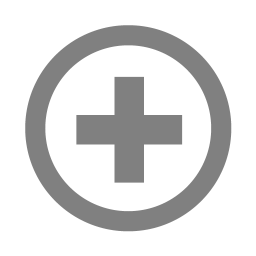
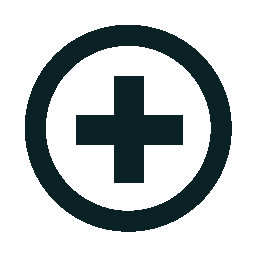
sign Up

Changed region(s): [[0.0938, 0.0938, 0.9062, 0.9062], [0.2812, 0.2812, 0.7188, 0.7188]]

diff --git a/src/screens/SignUP.tsx b/src/screens/SignUP.tsx
@@ -1,118 +1,148 @@
-import React from "react";
-import { Text, View, StyleSheet, TextInput, TouchableOpacity } from "react-native";
+import React, { useState } from "react";
+import { StyleSheet, TextInput, View, Text, ScrollView, TouchableOpacity, KeyboardAvoidingView } from "react-native";
 
-const SignUP = ({ navigation }) => {
+const SignUpScreen = ({ navigation }) => {
+  const [username, setUsername] = useState<String>("");
+  const [password, setPassword] = useState<String>("");
+  const [email, setEmail] = useState<String>("");
+  const [confirmEmail, setconfirmEmail] = useState<String>("");
+  const [error, setError] = useState<Boolean>(false);
+  const [errorMsg, setErrorMsg] = useState<String>("");
+
+  const resetError = () => {
+    setError(false);
+    setErrorMsg("");
+  };
+
+  const handleSubmit = () => {
+    if (username === "") {
+      setErrorMsg("Username is Empty");
+      setError(true);
+      return;
+    }
+    if (password === "") {
+      setErrorMsg("Password is Empty");
+      setError(true);
+      return;
+    }
+    if (email != confirmEmail) {
+      setErrorMsg("Email and Confirm Email Does not match");
+      setError(true);
+      return;
+    }
+    setErrorMsg("");
+    setError(false);
+
+    navigation.reset({
+      index: 0,
+      routes: [{ name: "login" }],
+    });
+  };
   return (
-    <View style={styles.wrapper}>
-      <View style={styles.body}>
-        <View style={styles.topTitle}>
-          <Text style={styles.headerTextStyle}>Sign Up Here</Text>
-        </View>
-        <TextInput style={styles.input} value={"Username"} />
-        <TextInput style={styles.input} value={"Email"} />
-        <TextInput style={styles.input} value={"Password"} placeholder="Password" />
-        <TextInput style={styles.input} value={"Confirm Password"} placeholder="Confirm Password" />
-        <Text style={styles.smallText}>By signing up You agree to the our Terms of service and privacy policy</Text>
-      </View>
-      <View style={styles.buttonSet}>
-        <TouchableOpacity style={styles.button}>
-          <Text style={styles.buttonText}> Submit </Text>
-        </TouchableOpacity>
-
-        <TouchableOpacity style={styles.button}>
-          <Text
-            style={styles.buttonText}
+    <View style={styles.mainBody}>
+      <View style={{ flex: 0.2 }}></View>
+      <ScrollView>
+        <KeyboardAvoidingView enabled>
+          <View style={{ alignItems: "center" }}>
+            <Text style={styles.headerTextStyle}>Sign Up</Text>
+          </View>
+          <Text style={styles.errorTextStyle}>{errorMsg}</Text>
+          <View style={styles.SectionStyle}>
+            <TextInput style={styles.inputStyle} textAlign={"center"} onChange={resetError} placeholder={"Username"} onChangeText={setUsername} clearTextOnFocus />
+          </View>
+          <View style={styles.SectionStyle}>
+            <TextInput style={styles.inputStyle} textAlign={"center"} onChange={resetError} onChangeText={setEmail} placeholder="Email" clearTextOnFocus />
+          </View>
+          <View style={styles.SectionStyle}>
+            <TextInput style={styles.inputStyle} textAlign={"center"} onChange={resetError} onChangeText={setconfirmEmail} placeholder="Confirm Email" clearTextOnFocus />
+          </View>
+          <View style={styles.SectionStyle}>
+            <TextInput style={styles.inputStyle} textAlign={"center"} onChange={resetError} onChangeText={setPassword} placeholder="Password" clearTextOnFocus />
+          </View>
+          <TouchableOpacity
+            style={styles.buttonStyle}
+            activeOpacity={0.5}
             onPress={() => {
-              navigation.reset({
-                index: 0,
-                routes: [{ name: "login" }],
-              });
+              handleSubmit();
             }}
           >
-            {" "}
-            Cancel{" "}
-          </Text>
-        </TouchableOpacity>
-      </View>
+            <Text style={styles.buttonTextStyle}>Sign Up</Text>
+          </TouchableOpacity>
+        </KeyboardAvoidingView>
 
-      <View style={styles.footer}></View>
+        <Text style={styles.registerTextStyle} onPress={() => navigation.navigate("login")}>
+          Already a User? Login
+        </Text>
+      </ScrollView>
     </View>
   );
 };
+export default SignUpScreen;
 
 const styles = StyleSheet.create({
-  wrapper: {
+  mainBody: {
     flex: 1,
-    flexDirection: "column",
-  },
-  top: {
-    flex: 0.5,
-    justifyContent: "flex-end",
-  },
-  body: {
-    flex: 6,
     justifyContent: "center",
-    alignItems: "center",
-    paddingTop: "15%",
+    alignContent: "center",
+    marginTop: 20,
   },
-  footer: {
-    flex: 0.8,
-    justifyContent: "flex-start",
-    alignItems: "center",
-  },
-  buttonSet: {
-    flex: 0.2,
+  SectionStyle: {
     flexDirection: "row",
-    justifyContent: "center",
-    alignItems: "flex-end",
-    paddingTop: "10%",
-  },
-  topTitle: {
-    marginTop: 5,
-    flex: 0.2,
-    justifyContent: "flex-start",
-    alignItems: "center",
-    position: "relative",
-    bottom: 40,
+    height: 50,
+    marginTop: 20,
+    marginLeft: 35,
+    marginRight: 35,
+    margin: 10,
   },
   headerTextStyle: {
-    fontSize: 34,
-    color: "gray",
-    fontWeight: "600",
+    height: 100,
+    margin: 30,
+    textAlign: "center",
+    fontSize: 32,
   },
-  input: {
+  buttonStyle: {
+    backgroundColor: "#0A2126",
     height: 50,
-    margin: 12,
-    borderColor: "gray",
     borderRadius: 10,
-    borderWidth: 1,
-    padding: 10,
+    borderWidth: 0,
+    color: "#FFFFFF",
+    borderColor: "#7DE24E",
+    alignItems: "center",
+    marginLeft: 35,
+    marginRight: 35,
+    marginTop: 20,
+    marginBottom: 25,
+  },
+  buttonTextStyle: {
+    color: "#FFFFFF",
+    paddingVertical: 10,
+    fontSize: 16,
+  },
+  inputStyle: {
+    height: 50,
+    borderColor: "#0A2126",
+    borderRadius: 10,
     width: "80%",
     fontStyle: "italic",
-    paddingLeft: 20,
+    fontSize: 16,
+    flex: 1,
+    color: "#0A2126",
+    paddingLeft: 15,
+    paddingRight: 15,
+    borderWidth: 1,
   },
-  button: {
-    backgroundColor: "gray",
-    height: 50,
-    width: 120,
-    margin: 10,
-    borderRadius: 10,
-    justifyContent: "center",
-    alignItems: "center",
-  },
-  smallText: {
-    alignSelf: "center",
+  registerTextStyle: {
     textAlign: "center",
-    width: 300,
-    position: "relative",
-    bottom: -20,
-    color: "blue",
+    fontWeight: "bold",
+    fontSize: 14,
+    alignSelf: "center",
+    padding: 10,
+    color: "#0A2126",
     textDecorationLine: "underline",
   },
-  buttonText: {
-    fontSize: 20,
-    fontWeight: "500",
+  errorTextStyle: {
+    color: "#880808",
+    textAlign: "center",
+    fontSize: 14,
   },
 });
-
-export default SignUP;

diff --git a/src/navigator/bottomNavigator.tsx b/src/navigator/bottomNavigator.tsx
@@ -22,6 +22,7 @@ export const BottomNavigator = ({ route }) => {
       initialRouteName={"home"}
       screenOptions={{
         tabBarStyle: { backgroundColor: "#0A2126", paddingBottom: 2, paddingTop: 2 },
+        tabBarActiveTintColor: "white",
       }}
     >
       <Tab.Screen name="home" component={HomeScreen} options={{ title: "Home Screen", tabBarIcon: ({ color }) => <FontAwesome name="home" size={24} color={"white"} /> }} initialParams={{ username: username }} />
